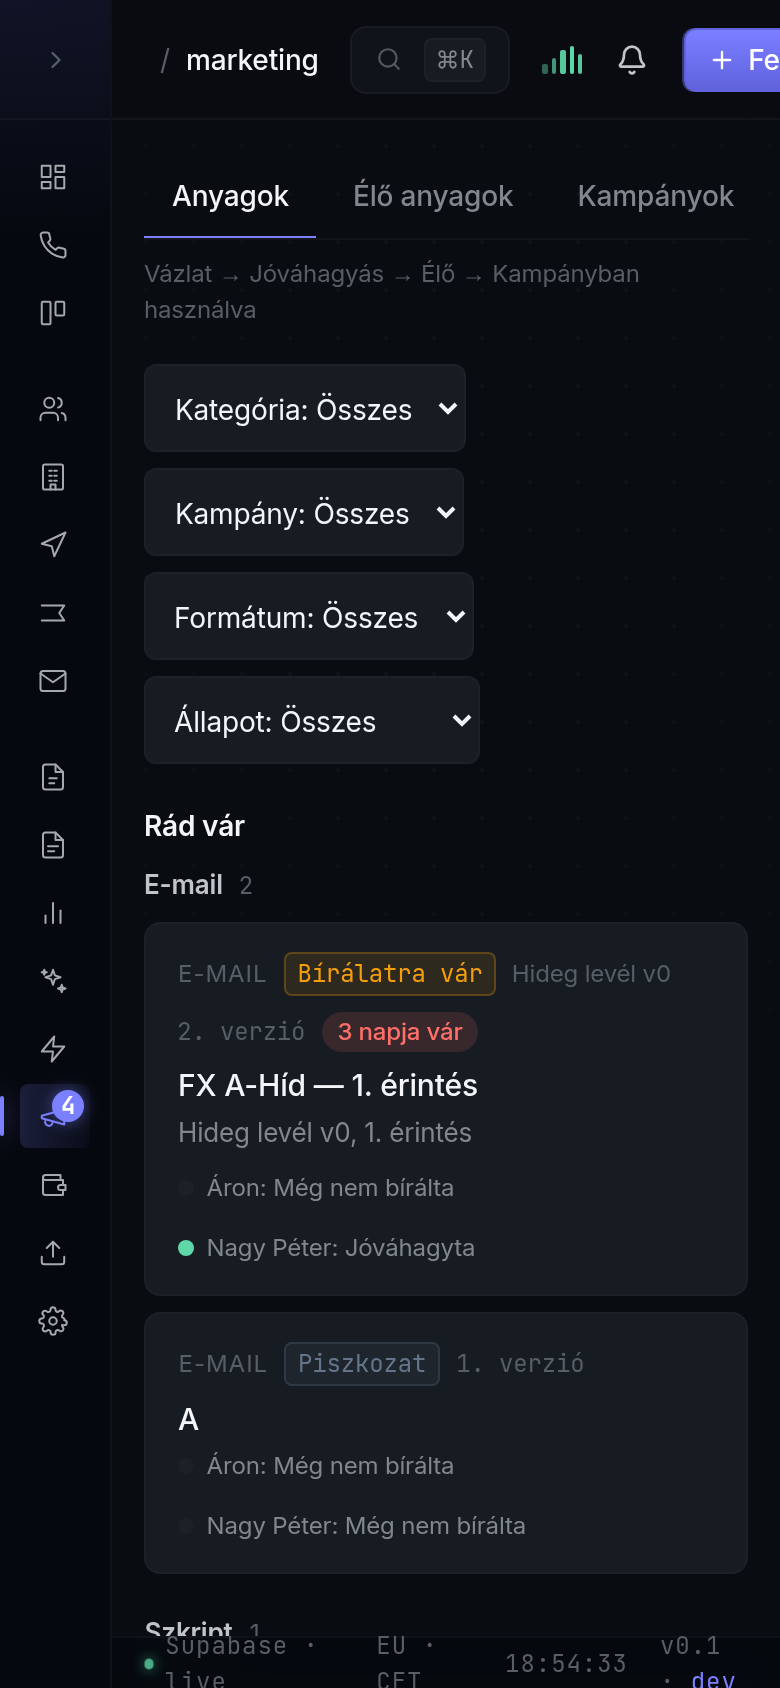
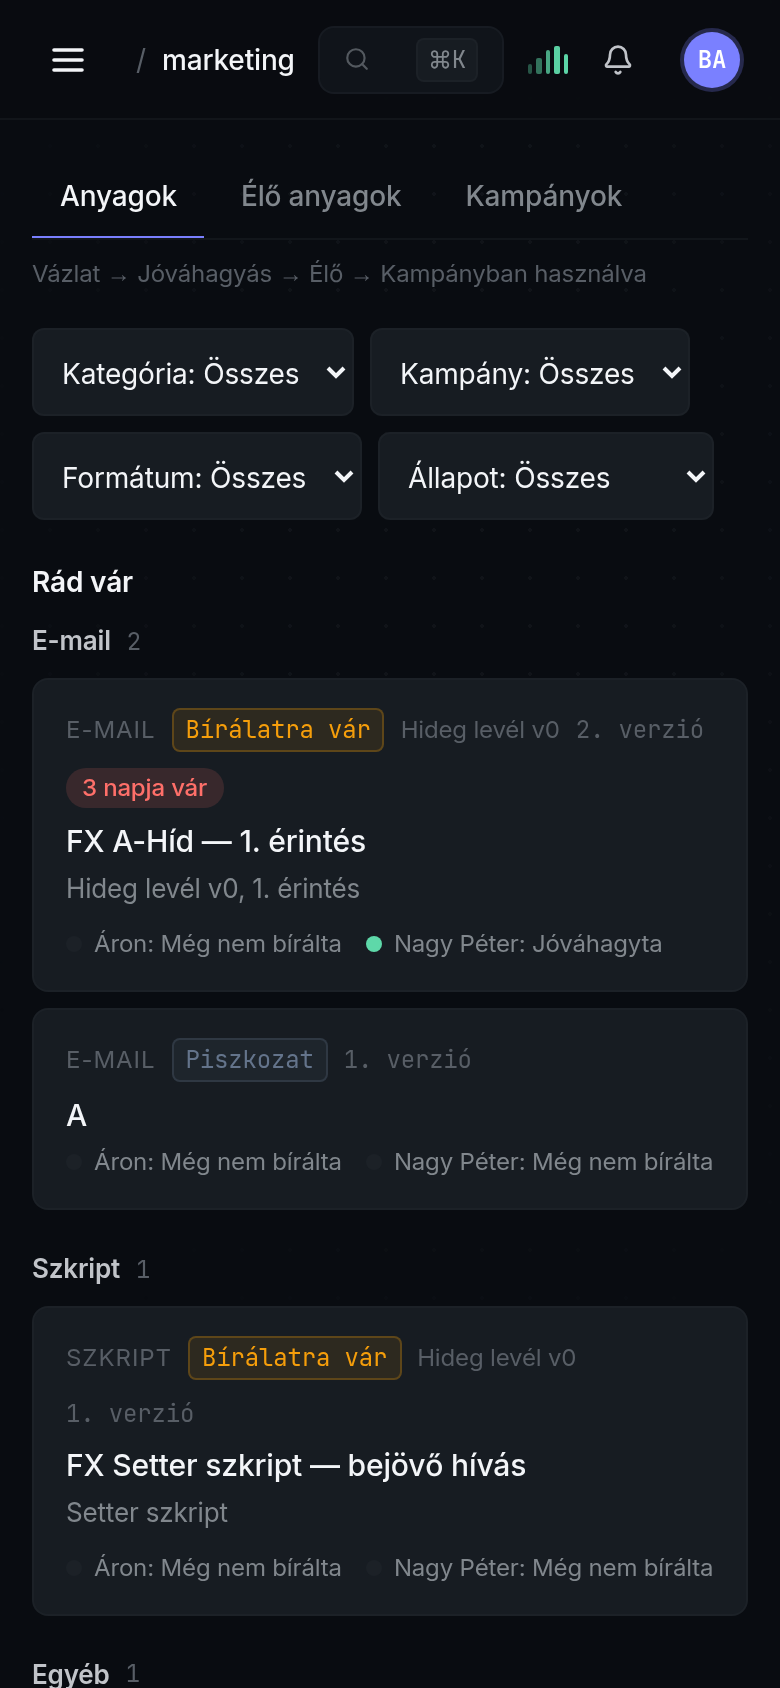
fix(ui): phones — sidebar is an off-canvas drawer, no status bar, CSS-first layout (no flash); re-shot 390/1440

diff --git a/web/src/components/layout/AppShell.tsx b/web/src/components/layout/AppShell.tsx
@@ -35,11 +35,14 @@ function isNarrow() {
 export function AppShell({ children, email, overdueCount = 0, marketingReviewCount = 0, defaultPipeline }: AppShellProps) {
   const [collapsed, setCollapsed] = useState(false);
   const [searchOpen, setSearchOpen] = useState(false);
-  // Phones: always the 56 px icon rail — the 240 px sidebar left ~150 px for
-  // content at 390 px (content approval spec §4: fully usable on phone).
-  // ponytail: rail, not a drawer; add an off-canvas menu if the rail gets crowded.
+  // Phones (< 768 px): the reading pane gets the full width (content approval
+  // spec §4) — sidebar becomes a drawer, status bar is hidden.
   const narrow = useSyncExternalStore(subscribeNarrow, isNarrow, () => false);
-  const isCollapsed = collapsed || narrow;
+  // Phones: no rail at all — the sidebar is an off-canvas drawer (Kai, #100 review).
+  const [drawerOpen, setDrawerOpen] = useState(false);
+  // Layout for phones is pure CSS (max-md: classes) so the first paint is right;
+  // `narrow` only drives drawer behaviour after hydration.
+  const isCollapsed = collapsed;
 
   useEffect(() => {
     const stored = localStorage.getItem("sidebar-collapsed");
@@ -60,9 +63,22 @@ export function AppShell({ children, email, overdueCount = 0, marketingReviewCou
 
   return (
     <>
-      <Sidebar collapsed={isCollapsed} onToggle={setCollapsed} badges={{ "/marketing": marketingReviewCount }} />
+      {narrow && drawerOpen && (
+        <div
+          aria-hidden
+          onClick={() => setDrawerOpen(false)}
+          style={{ position: "fixed", inset: 0, zIndex: 40, background: "oklch(0 0 0 / 0.5)" }}
+        />
+      )}
+      <Sidebar
+        collapsed={isCollapsed}
+        onToggle={setCollapsed}
+        badges={{ "/marketing": marketingReviewCount }}
+        mobile={{ open: narrow && drawerOpen, onClose: () => setDrawerOpen(false), active: narrow }}
+      />
       <Topbar
         collapsed={isCollapsed}
+        onMenu={() => setDrawerOpen(true)}
         email={email}
         defaultPipeline={defaultPipeline ?? null}
         onSearchOpen={() => setSearchOpen(true)}
@@ -70,17 +86,20 @@ export function AppShell({ children, email, overdueCount = 0, marketingReviewCou
 
       <main
         className={cn(
-          "relative z-10 transition-all duration-200",
-          isCollapsed ? "pl-14" : "pl-[240px]"
+          "relative z-10 transition-all duration-200 pb-[26px] max-md:pb-0",
+          isCollapsed ? "pl-14" : "pl-[240px]",
+          "max-md:!pl-0"
         )}
-        style={{ paddingTop: 60, paddingBottom: 26, height: "100dvh", overflowY: "auto" }}
+        style={{ paddingTop: 60, height: "100dvh", overflowY: "auto" }}
       >
         <div className="max-w-[1400px] mx-auto px-4 py-4 md:px-6 md:py-6">
           {children}
         </div>
       </main>
 
-      <StatusBar collapsed={isCollapsed} overdueCount={overdueCount} />
+      <div className="max-md:hidden">
+        <StatusBar collapsed={isCollapsed} overdueCount={overdueCount} />
+      </div>
 
       <CommandPalette open={searchOpen} onClose={() => setSearchOpen(false)} />
     </>

diff --git a/web/src/components/layout/Topbar.tsx b/web/src/components/layout/Topbar.tsx
@@ -81,12 +81,14 @@ interface PipelineStub {
 
 interface TopbarProps {
   collapsed: boolean;
+  /** Phones (< 768 px, CSS): full-width bar; the menu button opens the sidebar drawer. */
+  onMenu?: () => void;
   email: string;
   defaultPipeline: PipelineStub | null;
   onSearchOpen: () => void;
 }
 
-export function Topbar({ collapsed, email, defaultPipeline, onSearchOpen }: TopbarProps) {
+export function Topbar({ collapsed, onMenu, email, defaultPipeline, onSearchOpen }: TopbarProps) {
   const router = useRouter();
   const pathname = usePathname();
   const crumbs = useCrumb(pathname);
@@ -146,7 +148,7 @@ export function Topbar({ collapsed, email, defaultPipeline, onSearchOpen }: Topb
       )}
 
       <header
-        className="fixed top-0 right-0 z-20 flex items-center gap-4 px-6 transition-all duration-200"
+        className="fixed top-0 right-0 z-20 flex items-center gap-3 px-3 md:gap-4 md:px-6 transition-all duration-200 max-md:!left-0"
         style={{
           left: collapsed ? "3.5rem" : "240px",
           height: 60,
@@ -155,6 +157,19 @@ export function Topbar({ collapsed, email, defaultPipeline, onSearchOpen }: Topb
           borderBottom: "1px solid var(--line-soft)",
         }}
       >
+        {(
+          <button
+            type="button"
+            className="grid place-items-center md:hidden"
+            onClick={onMenu}
+            aria-label="Menü"
+            style={{ width: 44, height: 44, borderRadius: 8, color: "var(--fg)", flexShrink: 0 }}
+          >
+            <svg width="20" height="20" viewBox="0 0 20 20" fill="none" aria-hidden>
+              <path d="M3 5h14M3 10h14M3 15h14" stroke="currentColor" strokeWidth="1.8" strokeLinecap="round" />
+            </svg>
+          </button>
+        )}
         {/* Breadcrumbs */}
         <nav className="flex items-center gap-2 text-sm" style={{ color: "var(--fg-mute)" }}>
           <span className="hidden md:inline" style={{ color: "var(--fg-faint)" }}>Helm CRM</span>
@@ -227,7 +242,7 @@ export function Topbar({ collapsed, email, defaultPipeline, onSearchOpen }: Topb
           </button>
 
           {/* + New split button */}
-          <div className="flex items-stretch" style={{ borderRadius: 6, overflow: "hidden" }}>
+          <div className="hidden md:flex items-stretch" style={{ borderRadius: 6, overflow: "hidden" }}>
             <button
               onClick={openTask}
               onMouseEnter={prepTask}

diff --git a/web/src/components/layout/Sidebar.tsx b/web/src/components/layout/Sidebar.tsx
@@ -182,12 +182,16 @@ interface SidebarProps {
   onToggle: (collapsed: boolean) => void;
   /** Count badges keyed by nav href (e.g. { "/marketing": 3 }). */
   badges?: Record<string, number>;
+  /** Phones: render as an off-canvas drawer instead of a rail. */
+  /** Phones (< 768 px, CSS): an off-canvas drawer. `active` = the phone layout is on. */
+  mobile?: { open: boolean; onClose: () => void; active: boolean };
 }
 
-export function Sidebar({ collapsed, onToggle, badges }: SidebarProps) {
+export function Sidebar({ collapsed, onToggle, badges, mobile }: SidebarProps) {
   const pathname = usePathname();
 
   function toggle() {
+    if (mobile?.active) { mobile.onClose(); return; }
     const next = !collapsed;
     onToggle(next);
     localStorage.setItem("sidebar-collapsed", String(next));
@@ -197,9 +201,12 @@ export function Sidebar({ collapsed, onToggle, badges }: SidebarProps) {
     <aside
       style={{ background: "var(--bg-sidebar)", borderRight: "1px solid var(--line-soft)" }}
       className={cn(
-        "fixed top-0 left-0 h-full flex flex-col transition-all duration-200 z-30 overflow-hidden",
-        collapsed ? "w-14" : "w-[240px]"
+        "fixed top-0 left-0 h-full flex flex-col transition-all duration-200 overflow-hidden z-30",
+        collapsed ? "w-14" : "w-[240px]",
+        "max-md:z-50 max-md:w-[260px]",
+        !mobile?.open && "max-md:-translate-x-full"
       )}
+      aria-hidden={mobile?.active ? !mobile.open : undefined}
     >
       {/* Indigo gradient glow top-left */}
       <div
@@ -279,6 +286,7 @@ export function Sidebar({ collapsed, onToggle, badges }: SidebarProps) {
                   <li key={href}>
                     <Link
                       href={href}
+                      onClick={mobile?.active ? mobile.onClose : undefined}
                       title={collapsed ? label : undefined}
                       className="relative flex items-center gap-2.5 rounded transition-colors duration-150"
                       style={{

diff --git a/web/src/app/(app)/marketing/[id]/review.css b/web/src/app/(app)/marketing/[id]/review.css
@@ -362,14 +362,14 @@
 @media (max-width: 767px) {
   .review-actionbar-wrap {
     position: fixed;
-    left: 3.5rem; /* the phone icon rail (AppShell) */
+    left: 0; /* phones: no rail and no status bar (AppShell) */
     right: 0;
-    bottom: 26px; /* above the StatusBar — main's stacking context sits below it */
+    bottom: 0;
     top: auto;
     z-index: 40;
     background: var(--bg-1);
     border-top: 1px solid var(--line-soft);
-    padding: 8px 10px;
+    padding: 8px 10px calc(8px + env(safe-area-inset-bottom));
     margin: 0;
   }
   .review-actionbar-wrap .review-actionbar { margin-bottom: 0; border: none; padding: 0; background: none; }

diff --git a/web/src/app/layout.tsx b/web/src/app/layout.tsx
@@ -1,4 +1,4 @@
-import type { Metadata } from "next";
+import type { Metadata, Viewport } from "next";
 import { Inter, JetBrains_Mono } from "next/font/google";
 import "./globals.css";
 import { Insights } from "@/components/Insights";
@@ -14,6 +14,14 @@ const jetbrainsMono = JetBrains_Mono({
   subsets: ["latin"],
   display: "swap",
 });
+
+// viewport-fit=cover so env(safe-area-inset-*) is non-zero on notched phones
+// (the review page's fixed action bar pads itself with it).
+export const viewport: Viewport = {
+  width: "device-width",
+  initialScale: 1,
+  viewportFit: "cover",
+};
 
 export const metadata: Metadata = {
   title: "Helm CRM",
